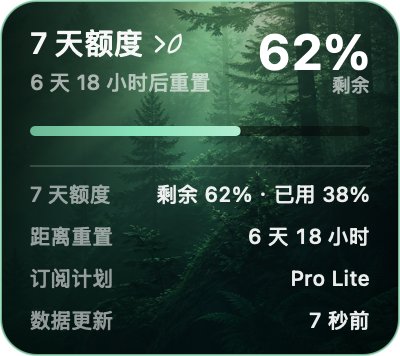
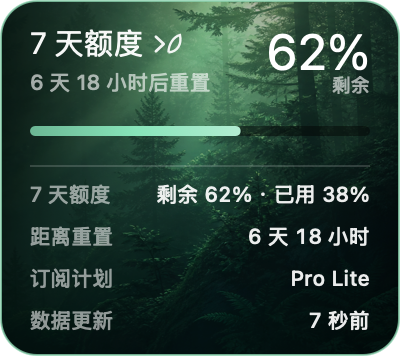
refine: use regular card typography

Changed region(s): [[0.63, 0.0927, 0.93, 0.2163], [0.09, 0.0927, 0.36, 0.1545], [0.42, 0.0927, 0.45, 0.1545]]

diff --git a/Sources/QuotaGrove/QuotaCardView.swift b/Sources/QuotaGrove/QuotaCardView.swift
@@ -404,7 +404,7 @@ final class QuotaCardView: NSView {
         let leftInset: CGFloat = 15
         let contentRight: CGFloat = 185
         let title = snapshot?.windowTitle ?? "7 天额度"
-        let titleFont = NSFont.systemFont(ofSize: 15, weight: .semibold)
+        let titleFont = NSFont.systemFont(ofSize: 15, weight: .regular)
         let titleColor = NSColor.white.withAlphaComponent(0.96)
         drawText(title, at: NSPoint(x: leftInset, y: top - 31), font: titleFont, color: titleColor)
 
@@ -413,7 +413,7 @@ final class QuotaCardView: NSView {
         drawMark(at: NSPoint(x: markX, y: top - 29), size: 14)
 
         let percent = snapshot.map { "\($0.roundedRemaining)%" } ?? "--%"
-        let percentFont = NSFont.monospacedDigitSystemFont(ofSize: 25, weight: .bold)
+        let percentFont = NSFont.monospacedDigitSystemFont(ofSize: 25, weight: .regular)
         let percentWidth = (percent as NSString).size(withAttributes: [.font: percentFont]).width
         let staleBadgeX = markX + 19
         if isStale, staleBadgeX + 24 <= contentRight - percentWidth - 5 {
@@ -513,7 +513,7 @@ final class QuotaCardView: NSView {
         drawText(
             "陈旧",
             at: NSPoint(x: rect.minX + 3.5, y: rect.minY + 1),
-            font: .systemFont(ofSize: 8.5, weight: .semibold),
+            font: .systemFont(ofSize: 8.5, weight: .medium),
             color: amber.withAlphaComponent(0.9)
         )
     }
